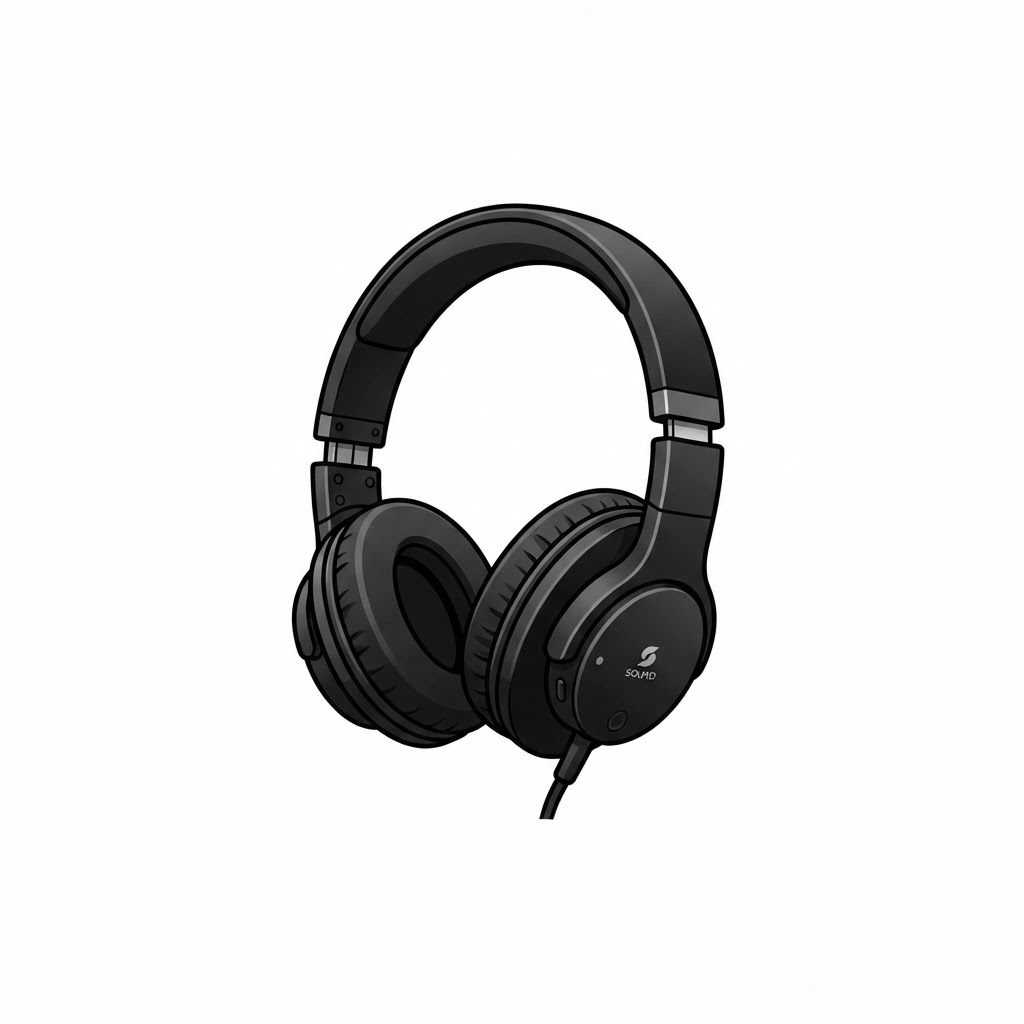
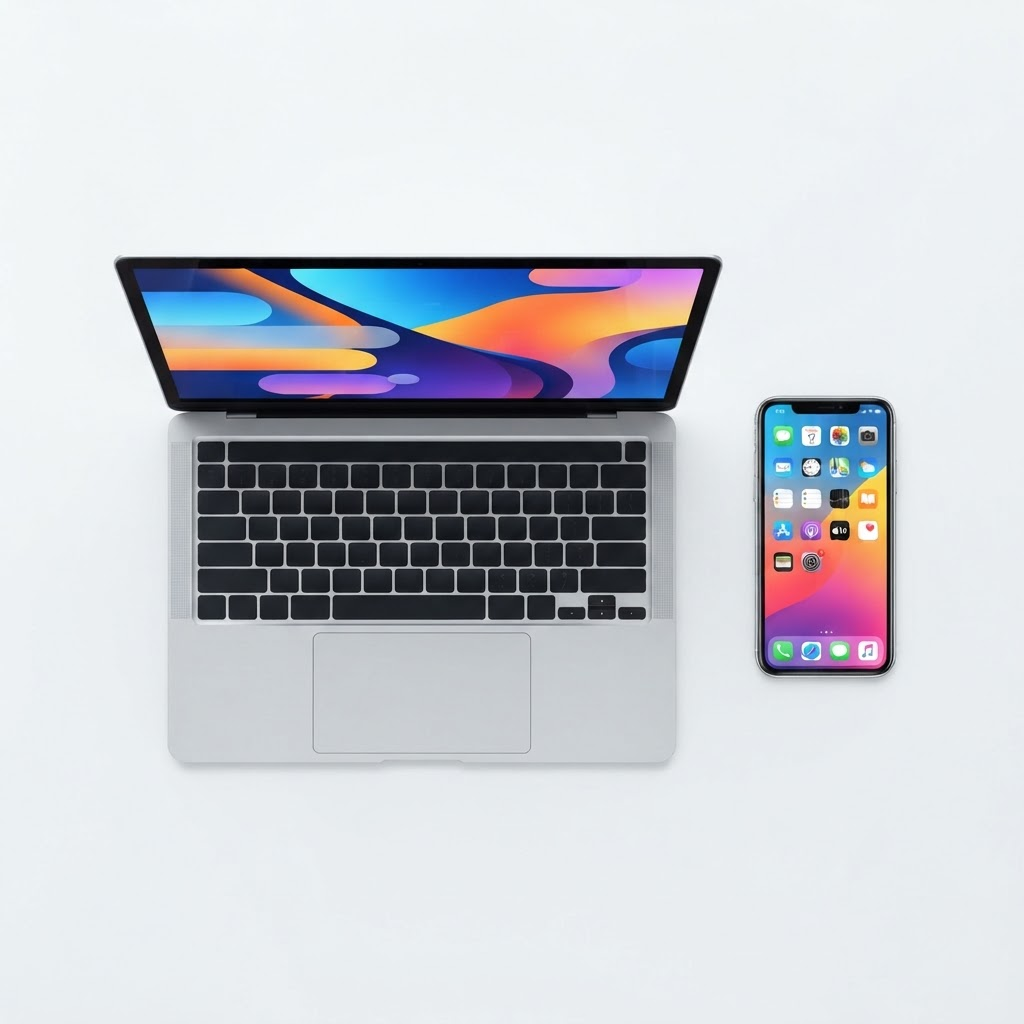
feat: enhance shop category image mapping with predefined images

diff --git a/lib/queries.ts b/lib/queries.ts
@@ -148,7 +148,32 @@ export async function getShopCategories(): Promise<ShopCategory[]> {
     console.log("[v0] getShopCategories error:", error?.message)
     return []
   }
-  return data.map((c) => ({ name: c.name as string, image: (c.image as string) || "/placeholder.svg" }))
+
+  const CATEGORY_IMAGES: Record<string, string> = {
+    "electronics": "/images/cat-electronics.png",
+    "mobiles": "/images/cat-mobiles.png",
+    "mobiles & accessories": "/images/cat-mobiles.png",
+    "computers": "/images/cat-computers.png",
+    "computers & accessories": "/images/cat-computers.png",
+    "video games": "/images/cat-videogames.png",
+    "cameras": "/images/cat-cameras.png",
+    "audio": "/images/cat-audio.png",
+    "musical instruments": "/images/cat-musical.png",
+    "office products": "/images/cat-office.png",
+    "fashion": "/images/cat-fashion.png",
+    "home & kitchen": "/images/cat-home.png",
+    "beauty": "/images/cat-beauty.png",
+    "sports": "/images/cat-sports.png",
+    "books": "/images/cat-books.png",
+    "automotive": "/images/cat-automotive.png",
+  }
+
+  return data.map((c) => {
+    const name = c.name as string
+    const dbImage = c.image as string | null
+    const fallback = CATEGORY_IMAGES[name.toLowerCase()] ?? "/images/cat-electronics.png"
+    return { name, image: dbImage || fallback }
+  })
 }
 
 // -----------------------------------------------------------------------------